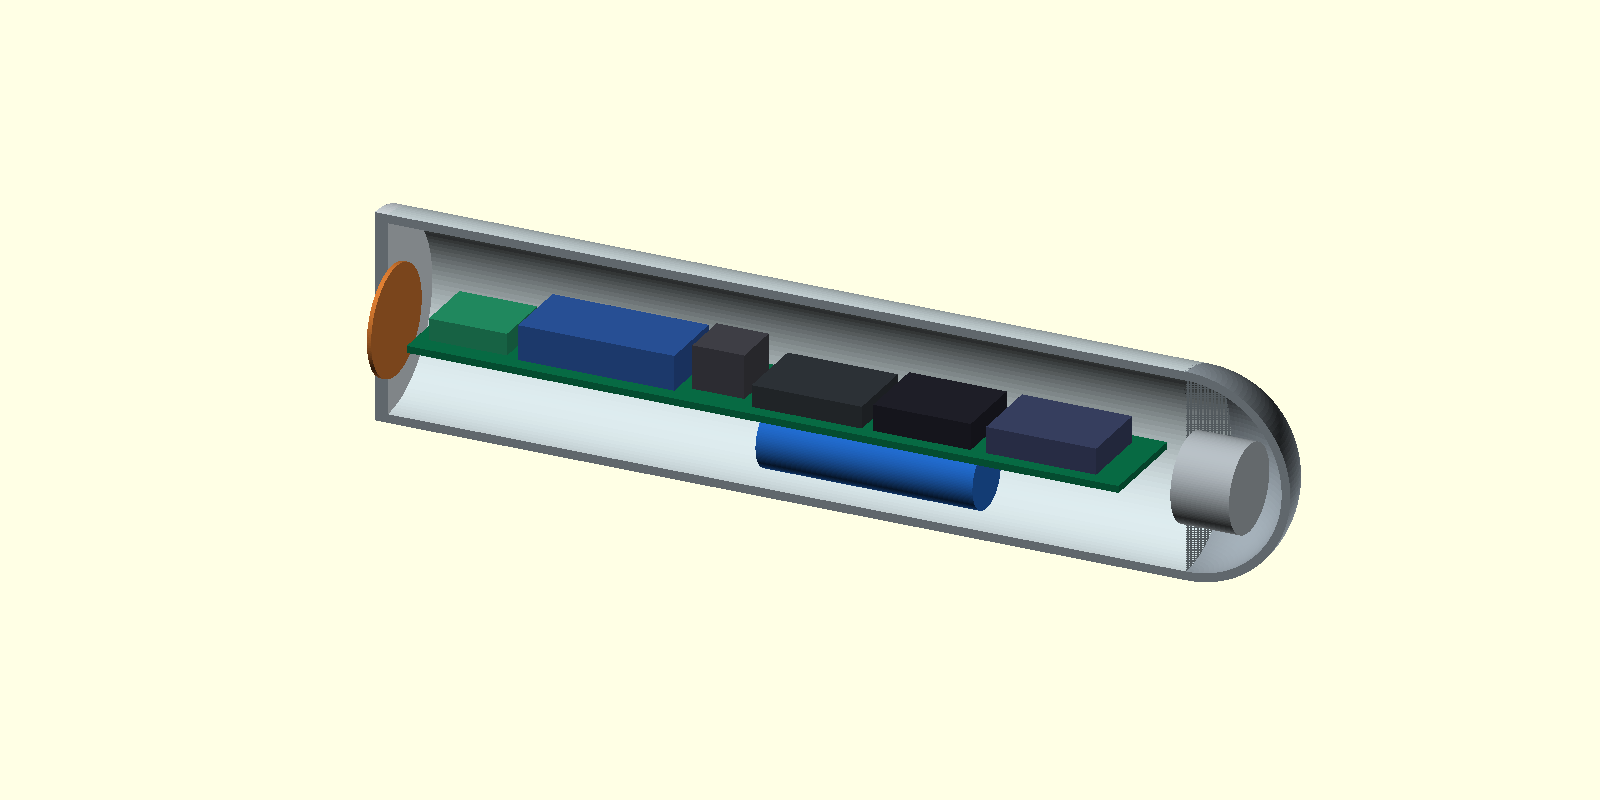
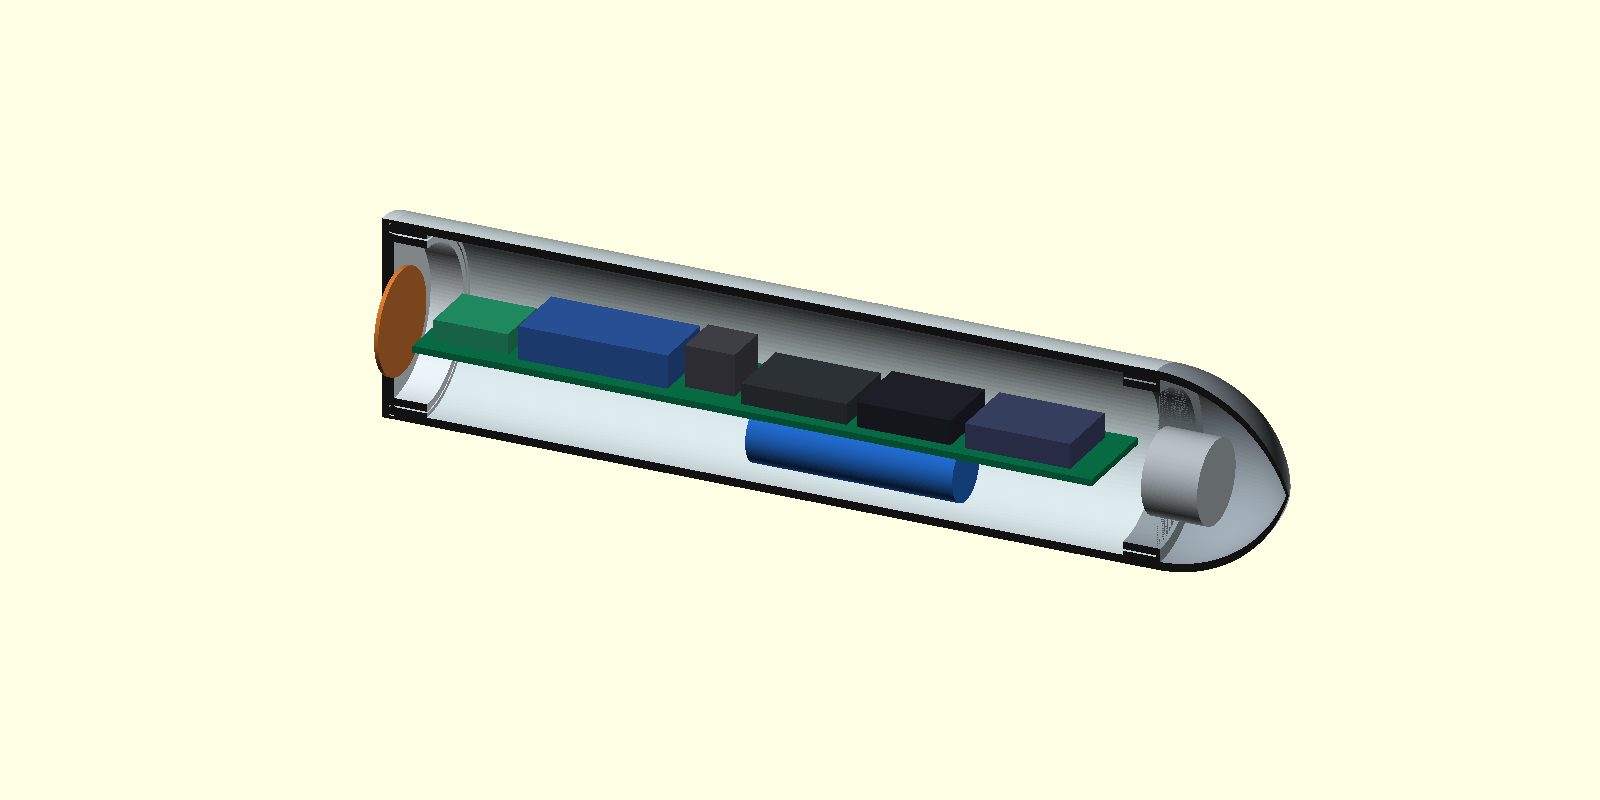
Model straight capsule with ogive and seal concept

Changed region(s): [[0.2188, 0.25, 0.8125, 0.75], [0.5312, 0.5312, 0.5625, 0.5625], [0.3125, 0.375, 0.3438, 0.4062]]

diff --git a/hardware/capsula_3d/README.md b/hardware/capsula_3d/README.md
@@ -1,25 +1,28 @@
 # Cápsula: maqueta 3D conceptual
 
-Primera interpretación del croquis facilitado: cuerpo tubular, tapa en el extremo de la bobina de carga, PCB longitudinal con batería debajo y punta separada para el actuador y el lastre. Abrir `capsula_conceptual.scad` con OpenSCAD. El modo `corte` muestra el interior; `conjunto`, `cuerpo`, `tapa` y `punta` permiten examinar el conjunto y sus piezas.
+Interpretación del croquis y de la aclaración del usuario: **cuerpo cilíndrico recto**, tapa roscada con junta tórica en el extremo de carga y ojiva circular roscada para alojar el lastre en el otro extremo. La PCB va longitudinalmente con la batería debajo. Abrir `capsula_conceptual.scad` con OpenSCAD. El modo `corte` muestra el interior; `conjunto`, `cuerpo`, `tapa` y `punta` permiten examinar el conjunto y sus piezas.
 
 La [vista en corte](capsula_corte.png) muestra la geometría y los bloques de referencia; la bobina naranja se representa junto a la tapa, la batería azul bajo la PCB y el actuador en la punta.
 
-**No es un diseño imprimible ni estanco.** Las piezas son envolventes sin roscas, encajes, juntas, fijaciones, guías, soporte de PCB ni solución para cables. El croquis indica roscas en los extremos; se deben diseñar y validar después, con tolerancias del proceso de impresión y un cierre estanco apropiado. Los componentes internos son bloques o cilindros de referencia, no sus modelos reales; la punta no incluye todavía el lastre ni el mecanismo de guiado del actuador.
+**No es un diseño imprimible ni estanco.** Se representan encajes lisos simbólicos en ambas uniones y una junta tórica con ranura ilustrativa en la tapa: **todavía no hay roscas helicoidales** ni dimensiones de sellado verificadas. La sección transversal de la junta se superpone intencionadamente a la superficie del cuerpo en la vista ensamblada: no es una simulación validada de compresión. El diámetro, sección, alojamiento, compresión y material de la junta, el tipo de rosca, sentido, paso, holguras y sellado deben diseñarse para las piezas y el proceso de impresión. La unión de la ojiva también requiere una solución de estanqueidad. No existen fijaciones, guías, soporte de PCB ni paso de cables.
+
+La ojiva hueca reserva espacio para el **lastre**, pero no modela su forma, masa ni fijación. El cilindro gris es una envolvente ilustrativa del actuador, no el lastre ni el mecanismo de guiado. Su ubicación exacta respecto al lastre y al centro de masas sigue pendiente; los bloques de componentes no son modelos reales.
 
 ## Dimensiones de partida, en mm
 
 | Elemento | Valor | Alcance |
 |---|---:|---|
-| Cuerpo tubular | 184 largo, 48 diámetro exterior, 2 pared | Hipótesis inicial; diámetro interior 44 |
-| Punta | Semiesfera exterior de radio 24, pared 2 | Envolvente ilustrativa, sin unión |
-| Tapa | Disco de espesor 3 | Sin unión, junta ni alojamiento de la bobina |
-| Longitud total exterior | 211 | 3 de tapa + 184 de cuerpo + 24 de punta |
+| Cuerpo tubular | 184 largo, 48 diámetro exterior, pared principal 2 | Hipótesis inicial; diámetro interior 44 en el tramo central, 42 en los 8 mm de cada extremo |
+| Ojiva | 32 de largo exterior, diámetro de base 48 | Arco circular tangente al cilindro; espesor radial nominal 2; encaje liso ilustrativo, sin rosca |
+| Tapa | Disco de espesor 3 | Encaje liso ilustrativo y ranura para junta, sin rosca |
+| Junta tórica | Diámetro medio 44, sección 2 | Modelo y ranura ilustrativos, compresión y estanqueidad no verificadas |
+| Longitud total exterior | 219 | 3 de tapa + 184 de cuerpo + 32 de ojiva |
 | PCB | 164 × 24 × 1,6 | Maqueta mecánica provisional, no PCB terminada |
 | Batería | Cilindro 50 × Ø14 | Dimensiones nominales, sin terminales ni soporte |
 | Bobina | Ø25 × 1 | Espesor ilustrativo, no medido |
 | Actuador | Ø20 × 13,5 | Solo envolvente aproximada del cuerpo; no incluye fijación ni carrera |
 
-El PCB empieza 10 mm después del inicio del tubo y acaba 10 mm antes de su extremo. La batería se dibuja bajo la PCB, con su eje 9,5 mm por debajo de su plano medio. Las alturas de los bloques electrónicos son **suposiciones**; la holgura, el aislamiento de la batería, los conectores, los radios de cable, la antena y el acceso al USB no están verificados. El condensador está representado por un bloque de 12 mm reservado, no por una medida confirmada.
+El PCB empieza 10 mm después del inicio del tubo y acaba 10 mm antes de su extremo: los encajes ilustrativos entran 8 mm por cada extremo, quedando 2 mm axiales respecto a la placa desnuda. La batería se dibuja bajo la PCB, con su eje 9,5 mm por debajo de su plano medio. Las alturas de los bloques electrónicos son **suposiciones**; la holgura, el aislamiento de la batería, los conectores, los radios de cable, la antena y el acceso al USB no están verificados. El condensador está representado por un bloque de 12 mm reservado, no por una medida confirmada.
 
 La longitud de 164 mm procede de la primera maqueta de la portadora: puede cambiar al diseñar huellas, conectores, PCB y antena. El diámetro exterior de 48 mm y el resto de las dimensiones de carcasa son propuestas, no resultados optimizados. El posicionamiento en la punta no establece la línea de acción del actuador con respecto al centro de masas ni garantiza que produzca el ángulo deseado. La dimensión y orientación exactas del actuador, sus cables, guía y posiciones extremas deberán verificarse.
 

diff --git a/docs/DISTRIBUCION_INTERIOR_CAPSULA.md b/docs/DISTRIBUCION_INTERIOR_CAPSULA.md
@@ -64,7 +64,7 @@ Todavía no se puede determinar la longitud ni el diámetro necesarios: faltan e
 
 La [maqueta mecánica de la PCB portadora](../hardware/pcb_portadora/README.md) propone una primera distribución en KiCad; es provisional y no apta para fabricación.
 
-La [maqueta conceptual 3D de la cápsula](../hardware/capsula_3d/README.md) interpreta el croquis con tapa de carga, cuerpo y punta separados; todavía no incorpora roscas, fijaciones ni juntas.
+La [maqueta conceptual 3D de la cápsula](../hardware/capsula_3d/README.md) interpreta el croquis con cuerpo cilíndrico, tapa de carga con junta ilustrativa y ojiva para el lastre. Los encajes son lisos: todavía no incorpora roscas funcionales ni fijaciones y la junta no está validada.
 
 ## Dimensionado y preparación del montaje
 
